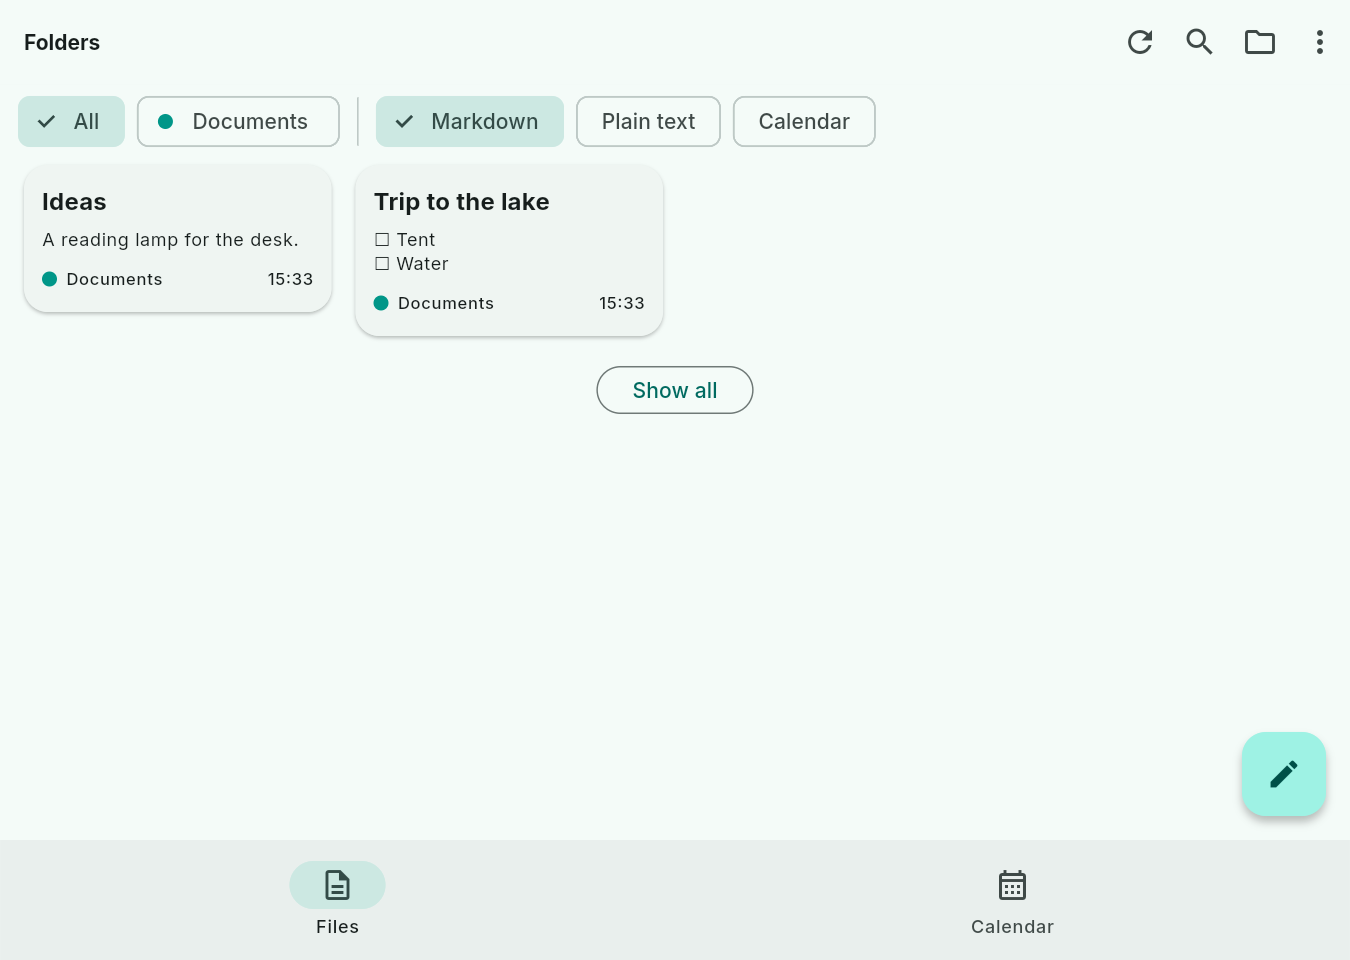
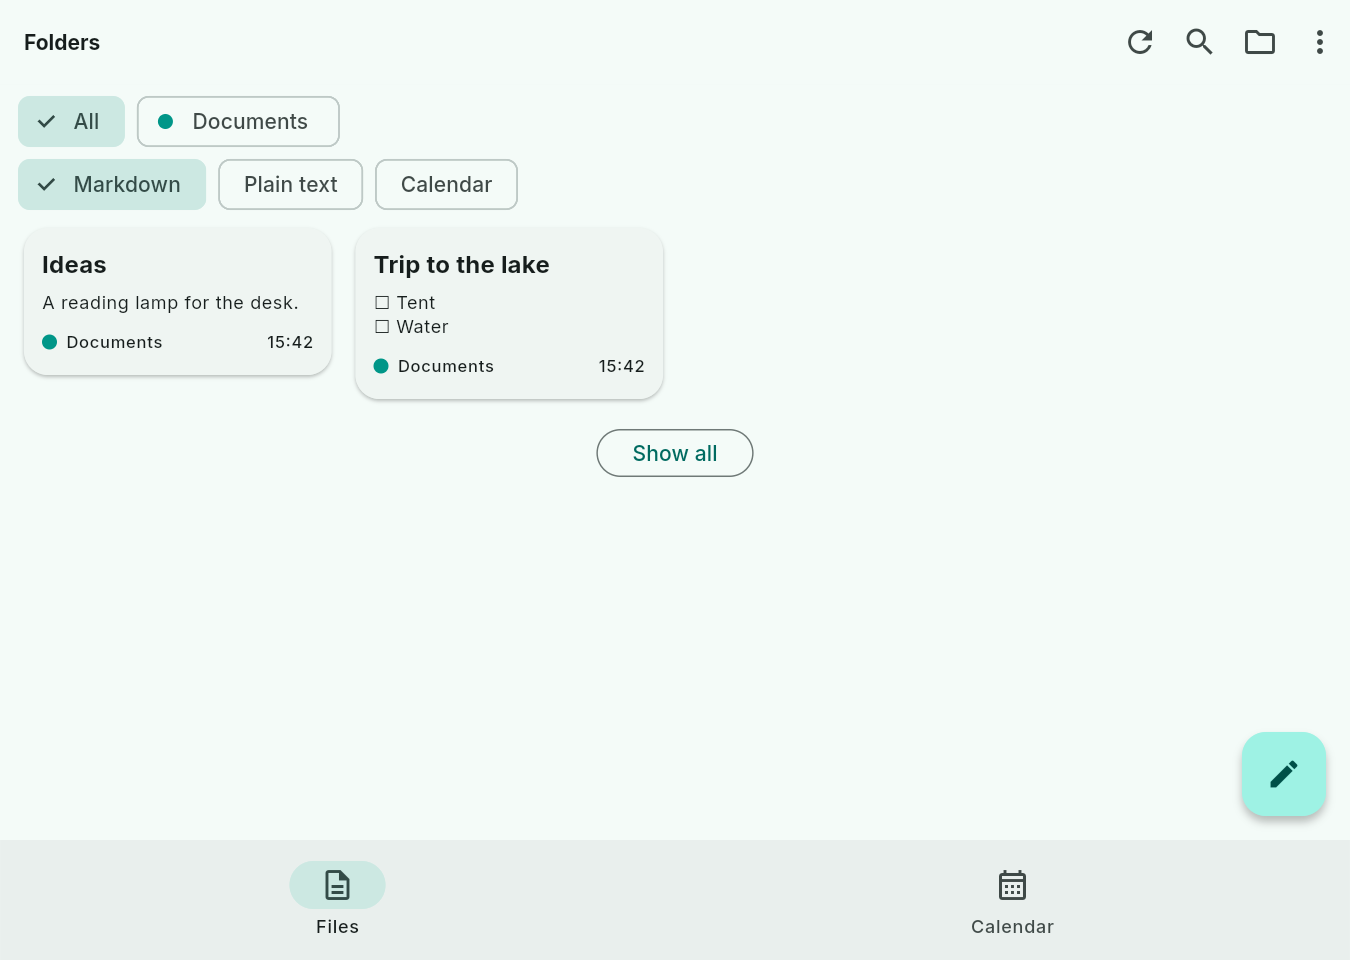
Type chips on their own row below the folder chips, so a picked type stays in sight

diff --git a/app/lib/files/ui/home_filter_bar.dart b/app/lib/files/ui/home_filter_bar.dart
@@ -4,8 +4,9 @@ import 'package:truce_folders/truce_folders.dart';
 import '../../folders/ui/folder_chips.dart';
 import 'file_type_chips.dart';
 
-/// The chips that filter the files grid: by folder, then by file type;
-/// scrolls sideways when they don't fit.
+/// The chips that filter the files grid: a row of folder chips, then a
+/// row of file type chips, so a picked type stays in sight; each row
+/// scrolls sideways when it doesn't fit.
 class HomeFilterBar extends StatelessWidget {
   const HomeFilterBar(this.folders, {required this.conflictCount, super.key});
 
@@ -15,15 +16,32 @@ class HomeFilterBar extends StatelessWidget {
   final int Function(Folder folder) conflictCount;
 
   @override
+  Widget build(BuildContext context) => Column(
+    crossAxisAlignment: CrossAxisAlignment.stretch,
+    children: [
+      _ChipRow(
+        padding: const EdgeInsets.fromLTRB(12, 8, 12, 4),
+        child: FolderChips(folders, conflictCount: conflictCount),
+      ),
+      const _ChipRow(
+        padding: EdgeInsets.fromLTRB(12, 4, 12, 8),
+        child: FileTypeChips(),
+      ),
+    ],
+  );
+}
+
+/// One row of chips, scrolling sideways when it doesn't fit.
+class _ChipRow extends StatelessWidget {
+  const _ChipRow({required this.padding, required this.child});
+
+  final EdgeInsets padding;
+  final Widget child;
+
+  @override
   Widget build(BuildContext context) => SingleChildScrollView(
     scrollDirection: Axis.horizontal,
-    padding: const EdgeInsets.symmetric(horizontal: 12, vertical: 8),
-    child: Row(
-      children: [
-        FolderChips(folders, conflictCount: conflictCount),
-        const SizedBox(height: 32, child: VerticalDivider(width: 24)),
-        const FileTypeChips(),
-      ],
-    ),
+    padding: padding,
+    child: child,
   );
 }

diff --git a/app/test/home/home_screen_test.dart b/app/test/home/home_screen_test.dart
@@ -77,6 +77,21 @@ void main() {
     expect(find.text('List'), findsOneWidget);
   });
 
+  testWidgets('the type chips stay in sight on a narrow screen', (
+    tester,
+  ) async {
+    tester.view
+      ..physicalSize = const Size(360, 800)
+      ..devicePixelRatio = 1;
+    addTearDown(tester.view.reset);
+    await start(tester, {'notes.md': '# Notes'});
+
+    for (final name in ['Markdown', 'Plain text']) {
+      final chip = tester.getRect(find.widgetWithText(ChoiceChip, name));
+      expect(chip.right, lessThanOrEqualTo(360), reason: name);
+    }
+  });
+
   testWidgets('no Calendar tab while the folders hold no calendar', (
     tester,
   ) async {

diff --git a/docs/features.md b/docs/features.md
@@ -5,7 +5,7 @@ first. They show sample documents only.
 
 ## Filter by file type
 
-Next to the folder chips, home and **Show all** have one chip per file
+Below the folder chips, home and **Show all** have one chip per file
 type: Markdown, Plain text and Calendar. Pick one to see only files of
 that type; tap it again to see all. It works together with the folder
 picked.
